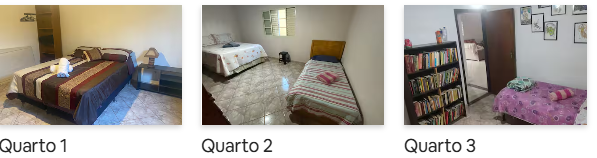
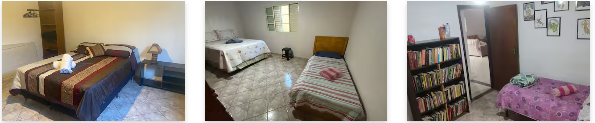
Ajustando imagens - Adicionada nova hospedagem

diff --git a/app.js b/app.js
@@ -12,6 +12,8 @@ const CONFIG = {
       id: "barata",
       badge: "Mais barata",
       name: "Viagem barata",
+      location: "Alto Paraíso de Goiás",
+      routeSet: "altoParaiso",
       total: 929,
       link: "https://www.airbnb.com.br/rooms/745062444003812524",
       photos: [
@@ -22,9 +24,26 @@ const CONFIG = {
       ],
     },
     {
+      id: "barata2",
+      badge: "Menos gasolina",
+      name: "Viagem barata 02",
+      location: "São Jorge",
+      routeSet: "saoJorge",
+      total: 1020,
+      link: "https://www.airbnb.com.br/rooms/1581209780199628073",
+      photos: [
+        { src: "images/barata-02-geral.png", caption: "Geral" },
+        { src: "images/barata-02-localizacao.png", caption: "Localização" },
+        { src: "images/barata-02-quartos.png", caption: "Quartos" },
+        { src: "images/barata-02-quintal.png", caption: "Quintal" },
+      ],
+    },
+    {
       id: "ideal",
       badge: "Escolha equilibrada",
       name: "Viagem ideal",
+      location: "Alto Paraíso de Goiás",
+      routeSet: "altoParaiso",
       total: 1858,
       link: "https://www.airbnb.com.br/rooms/1408940796117281906",
       photos: [
@@ -38,6 +57,8 @@ const CONFIG = {
       id: "cara",
       badge: "Top de linha",
       name: "Viagem cara",
+      location: "Alto Paraíso de Goiás",
+      routeSet: "altoParaiso",
       total: 2879,
       link: "https://www.airbnb.com.br/rooms/1114486706277617874",
       photos: [
@@ -50,40 +71,76 @@ const CONFIG = {
   ],
 
   // Distâncias aproximadas (km) — ver plano/README para fontes; ajuste se necessário.
-  routes: [
-    {
-      id: "ida-brasilia-altoparaiso",
-      from: "Brasília (Rodoviária / Asa Sul)",
-      to: "Alto Paraíso de Goiás",
-      km: 224,
-      roundTrip: false,
-      note: "Saída sexta-feira, 14h.",
+  // Duas malhas de rota: hospedagens em Alto Paraíso x a hospedagem em São Jorge
+  // (mais perto da Cachoeira do Segredo e do Vale da Lua, logo com menos km rodado).
+  routeSets: {
+    altoParaiso: {
+      label: "Alto Paraíso (Barata, Ideal, Cara)",
+      routes: [
+        {
+          from: "Brasília (Rodoviária / Asa Sul)",
+          to: "Alto Paraíso de Goiás",
+          km: 224,
+          roundTrip: false,
+          note: "Saída sexta-feira, 14h.",
+        },
+        {
+          from: "Alto Paraíso de Goiás",
+          to: "Cachoeira do Segredo",
+          km: 53,
+          roundTrip: true,
+          note: "Ida e volta no sábado — entrada 8h–13h, trilha de 3,5 km.",
+        },
+        {
+          from: "Alto Paraíso de Goiás",
+          to: "Vale da Lua",
+          km: 35,
+          roundTrip: false,
+          note: "Domingo de manhã cedo — aberto das 8h15 às 16h.",
+        },
+        {
+          from: "Vale da Lua",
+          to: "Brasília",
+          km: 259,
+          roundTrip: false,
+          note: "Volta direta para casa no domingo.",
+        },
+      ],
     },
-    {
-      id: "altoparaiso-cachoeira",
-      from: "Alto Paraíso de Goiás",
-      to: "Cachoeira do Segredo",
-      km: 53,
-      roundTrip: true,
-      note: "Ida e volta no sábado — entrada 8h–13h, trilha de 3,5 km.",
+    saoJorge: {
+      label: "São Jorge (Barata 02)",
+      routes: [
+        {
+          from: "Brasília (Rodoviária / Asa Sul)",
+          to: "São Jorge",
+          km: 255,
+          roundTrip: false,
+          note: "Saída sexta-feira, 14h.",
+        },
+        {
+          from: "São Jorge",
+          to: "Cachoeira do Segredo",
+          km: 16,
+          roundTrip: true,
+          note: "Ida e volta no sábado — entrada 8h–13h, trilha de 3,5 km.",
+        },
+        {
+          from: "São Jorge",
+          to: "Vale da Lua",
+          km: 9,
+          roundTrip: false,
+          note: "Domingo de manhã cedo — aberto das 8h15 às 16h.",
+        },
+        {
+          from: "Vale da Lua",
+          to: "Brasília",
+          km: 246,
+          roundTrip: false,
+          note: "Volta direta para casa no domingo (aprox., saindo perto de São Jorge).",
+        },
+      ],
     },
-    {
-      id: "altoparaiso-valedalua",
-      from: "Alto Paraíso de Goiás",
-      to: "Vale da Lua",
-      km: 35,
-      roundTrip: false,
-      note: "Domingo de manhã cedo — aberto das 8h15 às 16h.",
-    },
-    {
-      id: "volta-valedalua-brasilia",
-      from: "Vale da Lua",
-      to: "Brasília",
-      km: 259,
-      roundTrip: false,
-      note: "Volta direta para casa no domingo.",
-    },
-  ],
+  },
 
   fuelDefaults: {
     pricePerLiter: 6.5,
@@ -151,11 +208,16 @@ const CONFIG = {
 const fmtBRL = (v) =>
   v.toLocaleString("pt-BR", { style: "currency", currency: "BRL" });
 
-const totalKmPerCar = () =>
-  CONFIG.routes.reduce((sum, r) => sum + (r.roundTrip ? r.km * 2 : r.km), 0);
+const totalKmPerCar = (routeSetKey) =>
+  CONFIG.routeSets[routeSetKey].routes.reduce(
+    (sum, r) => sum + (r.roundTrip ? r.km * 2 : r.km),
+    0
+  );
 
 const attractionsPerPerson = () =>
   CONFIG.attractions.reduce((sum, a) => sum + a.pricePerPerson, 0);
+
+let activeRouteSet = "altoParaiso";
 
 // ===== Render: Hospedagem =====
 function renderLodgings() {
@@ -183,6 +245,7 @@ function renderLodgings() {
         <div class="lodging-body">
           <span class="badge">${l.badge}</span>
           <h3>${l.name}</h3>
+          <p class="lodging-location">📍 ${l.location}</p>
           <p class="lodging-total">${fmtBRL(l.total)} <span>total / ${CONFIG.trip.guests} pessoas</span></p>
           <p class="lodging-per-person">${fmtBRL(perPerson)} <span>por pessoa</span></p>
           ${diff > 0 ? `<p class="lodging-diff">+ ${fmtBRL(diff)} vs. mais barata</p>` : `<p class="lodging-diff lodging-diff--best">A opção mais barata</p>`}
@@ -220,8 +283,8 @@ function renderChart() {
     (l) => l.total / CONFIG.trip.guests
   );
   const max = Math.max(...perPersonValues);
-  // rampa sequencial verde validada (claro -> escuro = custo crescente)
-  const ramp = ["#7fae73", "#5c8f4f", "#2f5233"];
+  // rampa sequencial verde validada (claro -> escuro = custo crescente, 4 níveis)
+  const ramp = ["#96c189", "#7fae73", "#5c8f4f", "#2f5233"];
   const sorted = [...CONFIG.lodgings].sort((a, b) => a.total - b.total);
 
   chart.innerHTML = sorted
@@ -268,9 +331,31 @@ function mapsLinkHref(from, to) {
   )}&destination=${encodeURIComponent(to)}`;
 }
 
-function renderRoutes() {
+function renderRouteTabs() {
+  const tabs = document.getElementById("route-tabs");
+  tabs.innerHTML = Object.entries(CONFIG.routeSets)
+    .map(
+      ([key, rs]) => `
+      <button class="route-tab${key === activeRouteSet ? " active" : ""}" data-set="${key}">
+        ${rs.label}
+      </button>`
+    )
+    .join("");
+
+  tabs.querySelectorAll(".route-tab").forEach((btn) => {
+    btn.addEventListener("click", () => {
+      if (btn.dataset.set === activeRouteSet) return;
+      activeRouteSet = btn.dataset.set;
+      renderRouteTabs();
+      renderRoutesGrid();
+      calcFuel();
+    });
+  });
+}
+
+function renderRoutesGrid() {
   const grid = document.getElementById("routes-grid");
-  grid.innerHTML = CONFIG.routes
+  grid.innerHTML = CONFIG.routeSets[activeRouteSet].routes
     .map((r) => {
       const distanceLabel = r.roundTrip
         ? `${r.km} km (ida) · ${r.km * 2} km ida e volta`
@@ -302,27 +387,40 @@ function calcFuel() {
   const kml = parseFloat(document.getElementById("fuel-kml").value) || 1;
   const cars = parseInt(document.getElementById("fuel-cars").value) || 1;
 
-  const kmPerCar = totalKmPerCar();
-  const liters = (kmPerCar / kml) * cars;
-  const total = liters * price;
-  const perPerson = total / CONFIG.trip.guests;
+  const fuelPerPersonBySet = {};
 
-  document.getElementById("fuel-km-total").textContent = `${kmPerCar} km`;
-  document.getElementById("fuel-liters").textContent = `${liters.toFixed(1)} L`;
-  document.getElementById("fuel-total").textContent = fmtBRL(total);
-  document.getElementById("fuel-per-person").textContent = fmtBRL(perPerson);
+  Object.keys(CONFIG.routeSets).forEach((key) => {
+    const kmPerCar = totalKmPerCar(key);
+    const liters = (kmPerCar / kml) * cars;
+    const total = liters * price;
+    fuelPerPersonBySet[key] = total / CONFIG.trip.guests;
 
-  renderSummary(perPerson);
+    if (key === activeRouteSet) {
+      document.getElementById("fuel-km-total").textContent = `${kmPerCar} km`;
+      document.getElementById("fuel-liters").textContent = `${liters.toFixed(1)} L`;
+      document.getElementById("fuel-total").textContent = fmtBRL(total);
+      document.getElementById("fuel-per-person").textContent = fmtBRL(
+        fuelPerPersonBySet[key]
+      );
+    }
+  });
+
+  document.getElementById(
+    "fuel-calc-context"
+  ).textContent = `Calculando para a malha de rota: ${CONFIG.routeSets[activeRouteSet].label}.`;
+
+  renderSummary(fuelPerPersonBySet);
 }
 
 // ===== Resumo total por pessoa (hospedagem + combustível + ingressos) =====
-function renderSummary(fuelPerPerson) {
+function renderSummary(fuelPerPersonBySet) {
   const tbody = document.getElementById("summary-tbody");
   const ingressos = attractionsPerPerson();
 
   tbody.innerHTML = CONFIG.lodgings
     .map((l) => {
       const lodgingPerPerson = l.total / CONFIG.trip.guests;
+      const fuelPerPerson = fuelPerPersonBySet[l.routeSet];
       const total = lodgingPerPerson + fuelPerPerson + ingressos;
       return `
       <tr>
@@ -387,7 +485,8 @@ function renderHeader() {
 function init() {
   renderHeader();
   renderLodgings();
-  renderRoutes();
+  renderRouteTabs();
+  renderRoutesGrid();
   renderItinerary();
   renderFood();
 

diff --git a/index.html b/index.html
@@ -33,7 +33,7 @@
 
     <section id="hospedagem" class="section">
       <h2>Hospedagem</h2>
-      <p class="section-intro">Três opções para o fim de semana, preço fixo para o grupo de 8 pessoas.</p>
+      <p class="section-intro">Quatro opções para o fim de semana, preço fixo para o grupo de 8 pessoas.</p>
       <div class="lodging-grid" id="lodging-grid"></div>
 
       <h3 class="subsection-title">Comparativo</h3>
@@ -57,12 +57,13 @@
 
     <section id="rotas" class="section">
       <h2>Rotas &amp; Combustível</h2>
-      <p class="section-intro">Trajeto completo do fim de semana e cálculo de gasolina (2 carros, 4 pessoas em cada, média de 10 km/L).</p>
+      <p class="section-intro">Trajeto completo do fim de semana e cálculo de gasolina (2 carros, 4 pessoas em cada, média de 10 km/L). A hospedagem em São Jorge tem uma malha de rota diferente e mais curta.</p>
+      <div class="route-tabs" id="route-tabs"></div>
       <div class="routes-grid" id="routes-grid"></div>
 
       <div class="fuel-calc card">
         <h3>Calculadora de combustível</h3>
-        <p class="section-intro">Ajuste os valores conforme a realidade do dia da viagem.</p>
+        <p class="section-intro" id="fuel-calc-context">Ajuste os valores conforme a realidade do dia da viagem.</p>
         <div class="fuel-inputs">
           <label>
             Preço do litro (R$)
@@ -88,7 +89,7 @@
 
     <section id="resumo" class="section">
       <h2>Resumo total por pessoa</h2>
-      <p class="section-intro">Hospedagem + combustível (calculadora acima) + ingressos (Cachoeira do Segredo + Vale da Lua).</p>
+      <p class="section-intro">Hospedagem + combustível (usando a malha de rota de cada hospedagem) + ingressos (Cachoeira do Segredo + Vale da Lua).</p>
       <div class="table-wrap">
         <table class="comparison-table">
           <thead>

diff --git a/style.css b/style.css
@@ -215,6 +215,12 @@ h1, h2, h3 {
   margin: 0 0 4px;
   font-size: 1.15rem;
 }
+.lodging-location {
+  margin: 0 0 4px;
+  font-size: 0.8rem;
+  color: var(--wood-dark);
+  font-weight: 600;
+}
 .lodging-total {
   margin: 6px 0 0;
   font-size: 1rem;
@@ -337,6 +343,31 @@ h1, h2, h3 {
 }
 
 /* ===== Routes ===== */
+.route-tabs {
+  display: flex;
+  gap: 10px;
+  flex-wrap: wrap;
+  margin-bottom: 20px;
+}
+.route-tab {
+  background: var(--surface);
+  border: 1.5px solid var(--border);
+  color: var(--text-secondary);
+  font-weight: 600;
+  font-size: 0.85rem;
+  padding: 8px 16px;
+  border-radius: 999px;
+  cursor: pointer;
+}
+.route-tab:hover {
+  border-color: var(--green-light);
+  color: var(--green-dark);
+}
+.route-tab.active {
+  background: var(--green-dark);
+  border-color: var(--green-dark);
+  color: #ffffff;
+}
 .routes-grid {
   display: grid;
   grid-template-columns: repeat(auto-fit, minmax(280px, 1fr));

diff --git a/README.md b/README.md
@@ -52,6 +52,6 @@ npx serve .
 
 ## O que ajustar antes de publicar
 
-- Conferir se as distâncias das rotas (em `CONFIG.routes` no `app.js`) batem com o trajeto real combinado.
+- Conferir se as distâncias das rotas (em `CONFIG.routeSets` no `app.js`) batem com o trajeto real combinado. Há duas malhas: `altoParaiso` (Barata, Ideal, Cara) e `saoJorge` (Barata 02), selecionáveis por abas na seção "Rotas & Combustível".
 - Ajustar o preço padrão da gasolina no `CONFIG.fuelDefaults` se estiver desatualizado (o valor usado como padrão foi baseado em pesquisa de agosto/2026 no DF).
-- Conferir se as 12 fotos em `images/` estão corretas antes do `git add` — elas serão publicadas junto com o código.
+- Conferir se as 16 fotos em `images/` estão corretas antes do `git add` — elas serão publicadas junto com o código.
